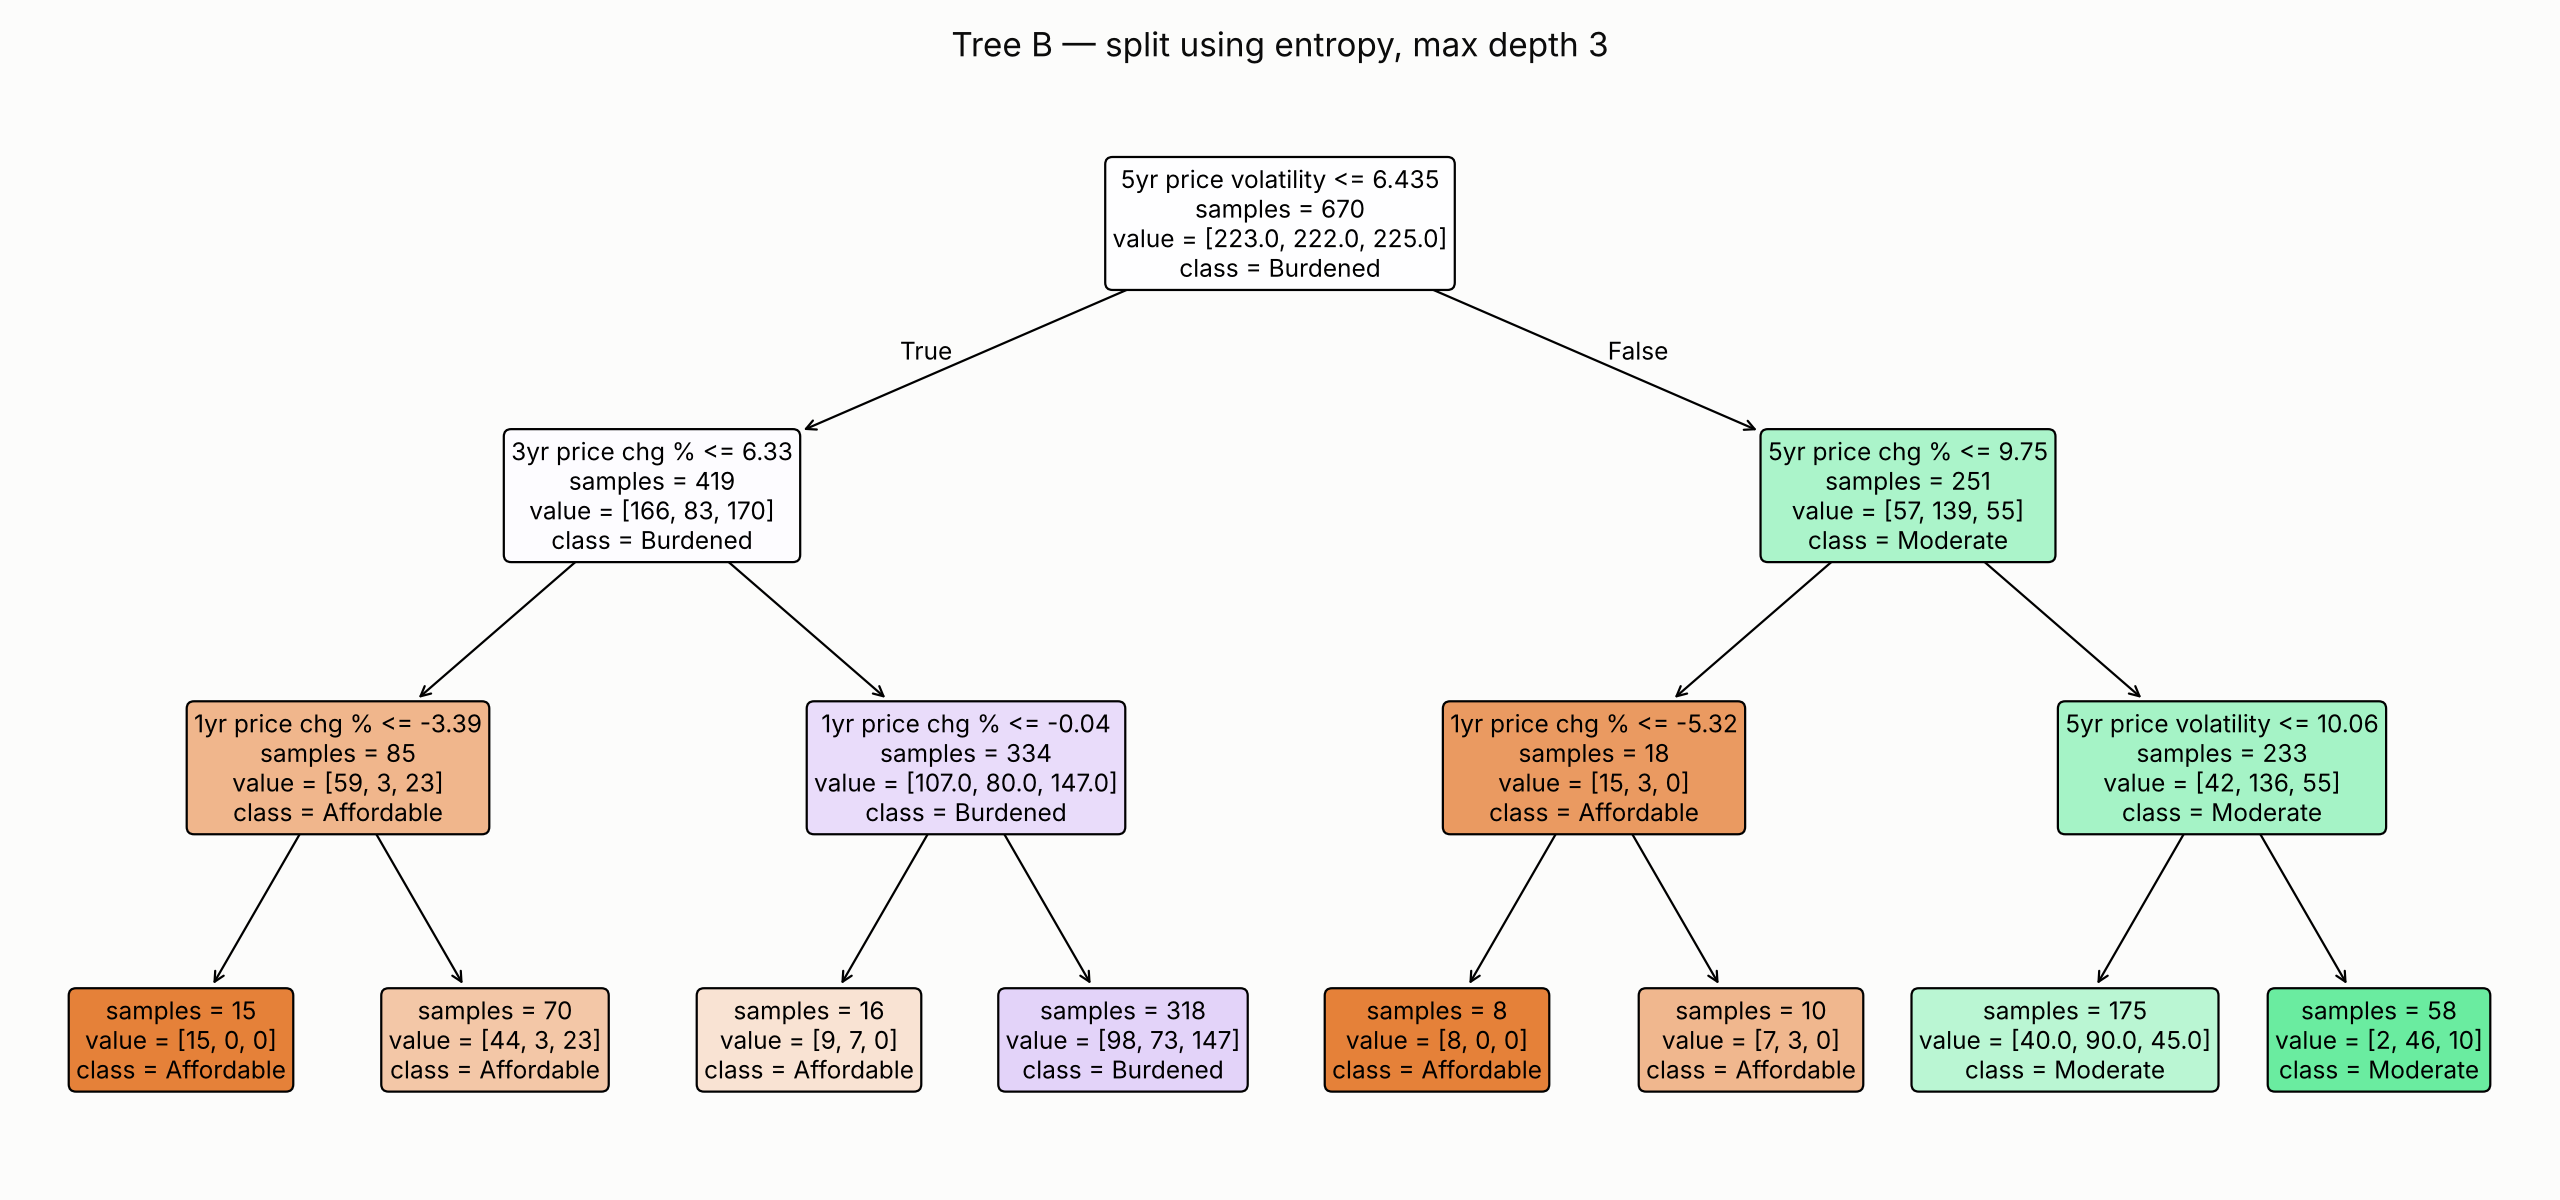
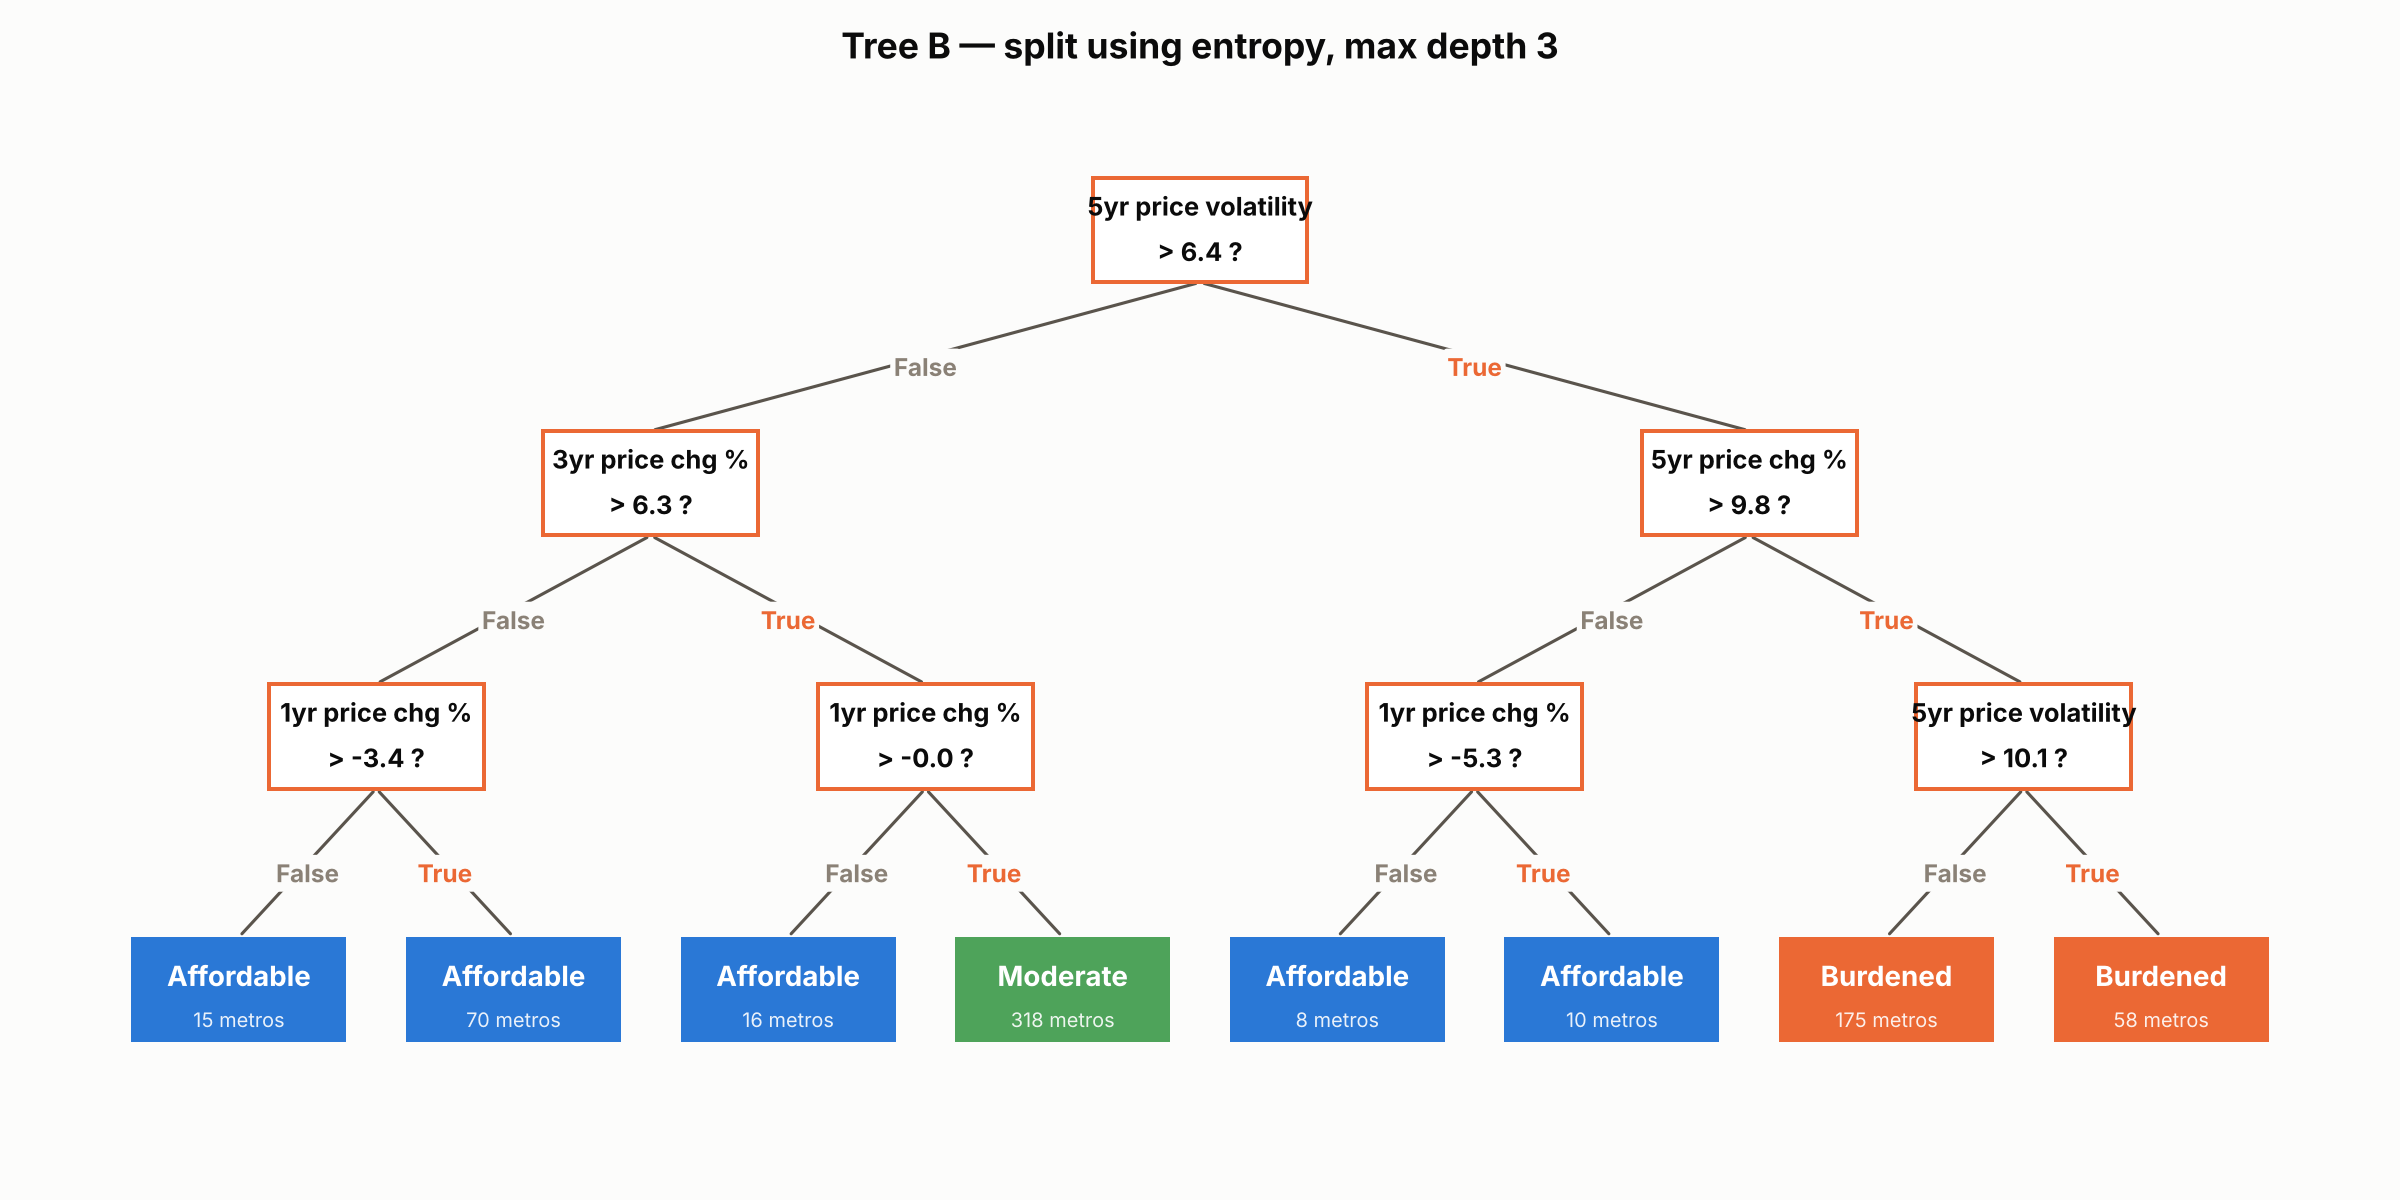
Redraw decision tree diagrams in a cleaner, GeeksforGeeks-style layout
Replace sklearn's plot_tree rendering with a custom matplotlib diagram
(white question boxes, orange/grey True/False branch labels, solid
colored leaf boxes) to make Tree A, B, and C easier to read. Update
the reading-guide note on the Decision Trees tab to match the new
visuals.

Claude-Session: https://claude.ai/code/session_011VdLBjRcMVqV27L5NQUpBP

diff --git a/docs/decision-trees.html b/docs/decision-trees.html
@@ -188,13 +188,12 @@
       </table>
     </div>
 
-    <p><em>Reading the trees below: each box is a node. The top line is the yes/no question (a predictor
-    compared to a threshold); &ldquo;class = &hellip;&rdquo; on the last line is which affordability class
-    that node would predict if a metro landed there, and &ldquo;samples&rdquo; is how many training metros
-    reached that node. Following the arrows down from the root to any box shows the chain of questions that
-    led to that prediction. The gini or entropy number each split actually used to choose that question is
-    left out of these boxes to keep them readable; the worked example above shows exactly how that number is
-    calculated for the real root split.</em></p>
+    <p><em>Reading the trees below: each white box is a yes/no question about one predictor. Following the
+    orange True or grey False label down from a question box leads to the next question, or to a colored
+    leaf box. Each leaf box shows the affordability class that would be predicted for a metro that lands
+    there, and how many training metros actually reached that leaf. The gini or entropy number each split
+    actually used to choose its question is left out of these boxes to keep them readable; the worked
+    example above shows exactly how that number is calculated for the real root split.</em></p>
 
     <figure class="wide">
       <img src="images/dt-tree-gini.png" alt="Tree A: gini criterion, max depth 3">

diff --git a/run_decision_trees.py b/run_decision_trees.py
@@ -21,7 +21,7 @@ Writes figures to docs/images/, a results table to data_clean/.
 """
 import numpy as np
 import pandas as pd
-from sklearn.tree import DecisionTreeClassifier, plot_tree
+from sklearn.tree import DecisionTreeClassifier
 from sklearn.metrics import confusion_matrix, accuracy_score
 
 import matplotlib
@@ -103,39 +103,129 @@ for name, clf in trees.items():
 results = pd.DataFrame(rows, columns=["tree", "test_accuracy", "depth", "n_leaves"])
 results.to_csv(f"{OUT_DIR}/dt-results-table.csv", index=False)
 
-# ---------------------------------------------------------------- tree diagrams (A and B, depth-3, fully readable)
-# Readability pass: friendly feature names instead of raw column names, and
-# impurity=False to drop the gini/entropy number from every box. That number
-# is already worked through once, by hand, in the table above (the actual
-# root split's gini and entropy, before and after); repeating it in all 15
-# boxes of every tree added clutter without adding information for a reader
-# who isn't going to re-derive the splits themselves.
-display_title = {
-    "Tree A (gini, depth=3)": "Tree A — split using gini impurity, max depth 3",
-    "Tree B (entropy, depth=3)": "Tree B — split using entropy, max depth 3",
-}
-for name, fname in [("Tree A (gini, depth=3)", "dt-tree-gini.png"), ("Tree B (entropy, depth=3)", "dt-tree-entropy.png")]:
-    clf = trees[name]
-    fig, ax = plt.subplots(figsize=(16, 7.5), dpi=160)
+# ---------------------------------------------------------------- tree diagrams, redrawn by hand for readability
+# plot_tree's default boxes (raw column names, a gini number, a full
+# value=[...] array, all in default-size text) were too dense to read at a
+# glance. Each tree is redrawn here as simple yes/no question boxes with
+# True/False branches and solid, color-coded leaf boxes, the same style as a
+# textbook decision-tree diagram: what matters for a reader is the question
+# asked at each step and the class predicted at the end, not the internal
+# gini bookkeeping (which the worked example table above shows once,
+# concretely, for the real root split).
+CLASS_COLOR = {"Affordable": BLUE, "Moderate": GREEN, "Burdened": ORANGE}
+
+def _leaf_label(tree_, node, classes_):
+    counts = tree_.value[node][0]
+    cls = classes_[int(np.argmax(counts))]
+    n = int(tree_.n_node_samples[node])
+    return cls, n
+
+def _layout(tree_, node, depth, leaf_x, positions, max_depth=None):
+    """Assigns each node an (x, y) position: x by leaf order, y by -depth."""
+    left, right = tree_.children_left[node], tree_.children_right[node]
+    is_leaf = (left == -1) or (max_depth is not None and depth == max_depth)
+    if is_leaf:
+        x = leaf_x[0]
+        leaf_x[0] += 1
+        positions[node] = (x, -depth, True)
+        return x
+    xl = _layout(tree_, left, depth + 1, leaf_x, positions, max_depth)
+    xr = _layout(tree_, right, depth + 1, leaf_x, positions, max_depth)
+    x = (xl + xr) / 2
+    positions[node] = (x, -depth, False)
+    return x
+
+def draw_custom_tree(clf, feature_names, title, fname, max_depth=None, figsize=(15, 7.5)):
+    tree_ = clf.tree_
+    classes_ = list(clf.classes_)
+    positions = {}
+    _layout(tree_, 0, 0, [0], positions, max_depth=max_depth)
+
+    fig, ax = plt.subplots(figsize=figsize, dpi=160)
     fig.patch.set_facecolor(SURFACE)
-    plot_tree(clf, feature_names=FRIENDLY_LABELS, class_names=CLASSES, filled=True, rounded=True,
-               impurity=False, fontsize=11, ax=ax, proportion=False)
-    ax.set_title(display_title[name], fontsize=15, color=INK, pad=14)
+    ax.set_facecolor(SURFACE)
+    ax.axis("off")
+
+    box_w, box_h = 0.9, 0.62
+    x_scale = 1.15
+
+    def xy(node):
+        x, y, _ = positions[node]
+        return x * x_scale, y * 1.5
+
+    # edges first, so boxes draw on top
+    for node, (x, y, is_leaf) in positions.items():
+        if is_leaf:
+            continue
+        left, right = tree_.children_left[node], tree_.children_right[node]
+        px, py = xy(node)
+        for child, branch_true in [(left, False), (right, True)]:
+            if child not in positions:
+                continue
+            cx, cy = xy(child)
+            ax.annotate("", xy=(cx, cy + box_h / 2), xytext=(px, py - box_h / 2),
+                        arrowprops=dict(arrowstyle="-", color=MUTED, linewidth=1.4), zorder=2)
+            mx, my = (px + cx) / 2, (py + cy) / 2 - box_h * 0.1
+            label, color = ("True", ORANGE) if branch_true else ("False", "#8a8176")
+            ax.text(mx, my, label, fontsize=11, color=color, fontweight="bold",
+                    ha="center", va="center", zorder=3,
+                    bbox=dict(boxstyle="round,pad=0.15", fc=SURFACE, ec="none"))
+
+    # boxes
+    for node, (x, y, is_leaf) in positions.items():
+        px, py = xy(node)
+        if is_leaf:
+            cls, n = _leaf_label(tree_, node, classes_)
+            color = CLASS_COLOR.get(cls, MUTED)
+            ax.add_patch(plt.Rectangle((px - box_w / 2, py - box_h / 2), box_w, box_h,
+                                        facecolor=color, edgecolor="none", zorder=4,
+                                        joinstyle="round", capstyle="round"))
+            ax.text(px, py + 0.08, cls, ha="center", va="center", fontsize=12.5,
+                    color="white", fontweight="bold", zorder=5)
+            ax.text(px, py - 0.18, f"{n} metros", ha="center", va="center", fontsize=9,
+                    color="white", zorder=5, alpha=0.9)
+        else:
+            feat = feature_names[tree_.feature[node]]
+            thresh = tree_.threshold[node]
+            ax.add_patch(plt.Rectangle((px - box_w / 2, py - box_h / 2), box_w, box_h,
+                                        facecolor="white", edgecolor=ORANGE, linewidth=1.8,
+                                        zorder=4))
+            ax.text(px, py, f"{feat}\n> {thresh:.1f} ?", ha="center", va="center", fontsize=11.5,
+                    color=INK, fontweight="bold", zorder=5, linespacing=1.4)
+
+    # "..." markers where the tree was truncated
+    if max_depth is not None:
+        for node, (x, y, is_leaf) in positions.items():
+            if is_leaf and tree_.children_left[node] != -1:
+                px, py = xy(node)
+                for dx in (-0.28, 0.28):
+                    ax.add_patch(plt.Rectangle((px + dx - 0.16, py - box_h * 1.55 - 0.1), 0.32, 0.42,
+                                                facecolor="#d8d3c8", edgecolor="none", zorder=4))
+                    ax.text(px + dx, py - box_h * 1.55 + 0.1, "⋯", ha="center", va="center",
+                            fontsize=13, color=MUTED, zorder=5)
+                    ax.annotate("", xy=(px + dx, py - box_h * 1.55 + 0.31), xytext=(px, py - box_h / 2),
+                                arrowprops=dict(arrowstyle="-", color=MUTED, linewidth=1.2), zorder=2)
+
+    xs = [xy(n)[0] for n in positions]
+    ys = [xy(n)[1] for n in positions]
+    pad_x, pad_y = box_w, box_h * 1.3
+    extra_bottom = 1.0 if max_depth is not None else 0.3
+    ax.set_xlim(min(xs) - pad_x, max(xs) + pad_x)
+    ax.set_ylim(min(ys) - pad_y - extra_bottom, max(ys) + pad_y)
+    ax.set_title(title, fontsize=16, color=INK, pad=16, fontweight="bold")
     fig.tight_layout()
     fig.savefig(f"{IMG_DIR}/{fname}", facecolor=SURFACE)
     plt.close(fig)
 
-# unpruned tree is too large to render legibly in full; show just the top 2 levels for comparison
+draw_custom_tree(trees["Tree A (gini, depth=3)"], FRIENDLY_LABELS,
+                  "Tree A — split using gini impurity, max depth 3", "dt-tree-gini.png")
+draw_custom_tree(trees["Tree B (entropy, depth=3)"], FRIENDLY_LABELS,
+                  "Tree B — split using entropy, max depth 3", "dt-tree-entropy.png")
+
 clf_c = trees["Tree C (gini, unpruned)"]
-fig, ax = plt.subplots(figsize=(13, 6), dpi=160)
-fig.patch.set_facecolor(SURFACE)
-plot_tree(clf_c, feature_names=FRIENDLY_LABELS, class_names=CLASSES, filled=True, rounded=True,
-           impurity=False, fontsize=11, ax=ax, max_depth=2)
-ax.set_title(f"Tree C — unpruned, top 2 levels shown of {clf_c.get_depth()} actual levels and {clf_c.get_n_leaves()} leaves",
-             fontsize=14, color=INK, pad=14)
-fig.tight_layout()
-fig.savefig(f"{IMG_DIR}/dt-tree-unpruned-top.png", facecolor=SURFACE)
-plt.close(fig)
+draw_custom_tree(clf_c, FRIENDLY_LABELS,
+                  f"Tree C — unpruned, top 2 levels shown of {clf_c.get_depth()} actual levels and {clf_c.get_n_leaves()} leaves",
+                  "dt-tree-unpruned-top.png", max_depth=2, figsize=(11, 6))
 
 # ---------------------------------------------------------------- feature importance (Tree A)
 clf_a = trees["Tree A (gini, depth=3)"]

diff --git a/docs/_build_pages.py b/docs/_build_pages.py
@@ -689,13 +689,12 @@ DECISION_TREES_BODY = """
       </table>
     </div>
 
-    <p><em>Reading the trees below: each box is a node. The top line is the yes/no question (a predictor
-    compared to a threshold); &ldquo;class = &hellip;&rdquo; on the last line is which affordability class
-    that node would predict if a metro landed there, and &ldquo;samples&rdquo; is how many training metros
-    reached that node. Following the arrows down from the root to any box shows the chain of questions that
-    led to that prediction. The gini or entropy number each split actually used to choose that question is
-    left out of these boxes to keep them readable; the worked example above shows exactly how that number is
-    calculated for the real root split.</em></p>
+    <p><em>Reading the trees below: each white box is a yes/no question about one predictor. Following the
+    orange True or grey False label down from a question box leads to the next question, or to a colored
+    leaf box. Each leaf box shows the affordability class that would be predicted for a metro that lands
+    there, and how many training metros actually reached that leaf. The gini or entropy number each split
+    actually used to choose its question is left out of these boxes to keep them readable; the worked
+    example above shows exactly how that number is calculated for the real root split.</em></p>
 
     <figure class="wide">
       <img src="images/dt-tree-gini.png" alt="Tree A: gini criterion, max depth 3">
